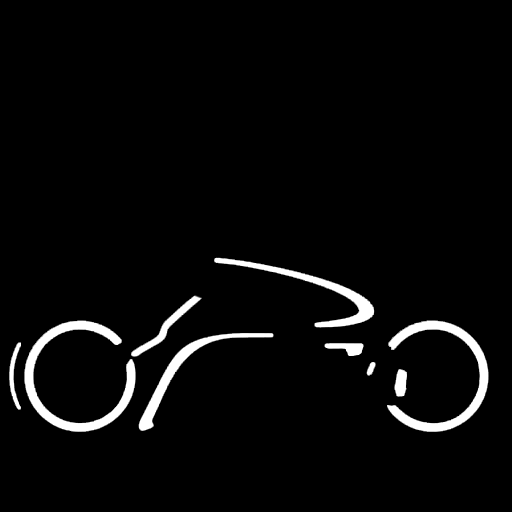
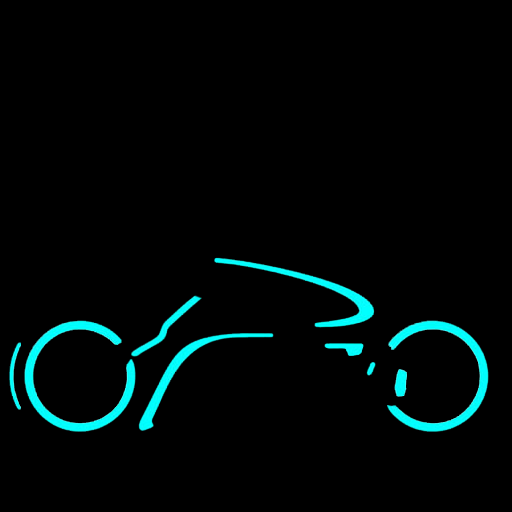
Items! YEA!

Changed region(s): [[0.0, 0.5625, 0.5312, 0.8438], [0.4062, 0.5, 0.9688, 0.8438], [0.0938, 0.8125, 0.2188, 0.8438]]

diff --git a/js/ItemManager.js b/js/ItemManager.js
@@ -4,52 +4,85 @@
 
 function ItemManager(scene) {
 
-    this.gameItems = [];
-
-    // Test
-    var pu = new PowerUp();
-    this.gameItems.push(pu);
-
-    function PowerUp() {
-        var __self = this;
-        new THREE.JSONLoader().load('obj/LightDisk.js', function (geometry) {
-            // select texture based on type
-            var texture = THREE.ImageUtils.loadTexture('img/LightDisk.png'),
-                material = new THREE.MeshLambertMaterial({
-                    map: texture,
-                    transparent : false
-                });
-            //texture.wrapT = THREE.RepeatWrapping;
-
-            __self.powerUpMesh = new THREE.Mesh(geometry, material);
-            __self.powerUpMesh.scale.set(2, 2, 2);
-            __self.powerUpMesh.position = CONFIG.playerPos.convertToCartesian();
-            __self.powerUpMesh.position.z -= CONFIG.cameraFar;
-            __self.powerUpMesh.rotation.x = Math.PI / 2;
-
-            window.scene.add(__self.powerUpMesh);
-        });
-    }
-
-    PowerUp.prototype.update = function () {
-        this.powerUpMesh.rotation.z += 0.05;
-    };
-
+    this.gameItems = []; 
+                                      
     // Item - super class???
     // Booster portals
     // tron disk power-ups -> different colors
     // Credit(W/ Curves)
 }
 
+ItemManager.prototype.generatePowerUps = function(curve, numOfItems) {
+    
+    // x1,y1 to x2,y2 where x is theta and y is z
+    // Consider r is constant for items
+    // division = num of items = 10    
+    var itemPoints = curve.getSpacedPoints(numOfItems),
+        itemRadius = CONFIG.trailRadiusLower;
+        
+    var i = 0, newPowerUp = null;
+    for(; i < numOfItems; i++)
+    {
+        var point3D = UTIL.v3c(itemRadius, itemPoints[i].x, itemPoints[i].y)
+        
+        log(itemPoints[i].y);
+        
+        newPowerUp = new PowerUp(point3D.convertToCartesian());
+        this.gameItems.push(newPowerUp);
+    }     
+}
+
 ItemManager.prototype.update = function () {
+    
     // update all items
     _.each(this.gameItems, function (item) {
+      // TODO: delete past items too far back
+    
         item.update();
     });
 
-    // update any new creation of items based on randomization or file
+    if(Math.random() > 0.99)
+    {
+        //var theta = -Math.PI/2;
+        var theta = 360*Math.random();
+        var curve = new THREE.QuadraticBezierCurve(theta, window.levelProgress - CONFIG.cameraFar, 
+                                            theta, window.levelProgress - CONFIG.cameraFar*1.5, 
+                                            theta, window.levelProgress - CONFIG.cameraFar*2);
+                                            
+        this.generatePowerUps(curve, 10);
+    }
+};
 
-    // delete past items too far back
+function PowerUp(pos) {
+    var __self = this;
+    this.powerUpMesh = null;
+    this.position = pos;
+    
+    new THREE.JSONLoader().load('obj/LightDisk.js', function (geometry) {
+        
+        // select texture based on type
+        var texture = THREE.ImageUtils.loadTexture('img/LightDisk.png'),
+            material = new THREE.MeshLambertMaterial({
+                map: texture,
+                transparent : false
+            });
+        
+        __self.powerUpMesh = new THREE.Mesh(geometry, material);
+        __self.powerUpMesh.scale.set(2, 2, 2);
+        __self.powerUpMesh.position = __self.position;
+        
+        //__self.powerUpMesh.position = CONFIG.playerPos.convertToCartesian();
+        //__self.powerUpMesh.position.z = __self.z;
+        __self.powerUpMesh.rotation.x = Math.PI / 2;
+        
+        window.scene.add(__self.powerUpMesh);
+    });
+}
 
-    //(TEST collision with items????)
+PowerUp.prototype.update = function () {
+    
+    if(this.powerUpMesh != null)
+    {
+        this.powerUpMesh.rotation.z += 0.05;
+    }
 };

diff --git a/js/script.js b/js/script.js
@@ -2,7 +2,7 @@
  * @author Troy Ferrell & Yang Su
  */
 
-var scene, glowscene;
+var scene, glowscene, levelProgress;
 
 $(document).ready(function () {
     var camera, renderer,
@@ -40,6 +40,10 @@ $(document).ready(function () {
         scene.add(camera);
         scene.add(new THREE.AmbientLight(0xAAAAAA));
 
+       // Glow Scene setup
+        glowscene = new THREE.Scene();
+        glowscene.add(new THREE.AmbientLight(0xFFFFFF));
+
         // Objects
         tunnel = new Tunnel(function () {
             tunnelInitialized = true;
@@ -57,10 +61,6 @@ $(document).ready(function () {
         renderer.clear();
 
         document.body.appendChild(renderer.domElement);
-
-        // GLOW Initialization
-        glowscene = new THREE.Scene();
-        glowscene.add(new THREE.AmbientLight(0xFFFFFF));
 
         // GLOW COMPOSER
         var renderTargetParameters = {
@@ -93,8 +93,8 @@ $(document).ready(function () {
         glowcomposer.addPass(renderModelGlow);
         glowcomposer.addPass(hblur);
         glowcomposer.addPass(vblur);
-        glowcomposer.addPass(hblur);
-        glowcomposer.addPass(vblur);
+        //glowcomposer.addPass(hblur);
+       // glowcomposer.addPass(vblur);
 
         // FINAL COMPOSER
         var finalshader = {
@@ -167,8 +167,10 @@ $(document).ready(function () {
         var now = UTIL.now(),
             dt = (now - lastUpdate) / 1000;
 
+        levelProgress = player.getPosition().z;
+
         // Call update methods to produce animation
-        tunnel.update(player.getPosition().z);
+        tunnel.update();
         player.update(dt);
         itemManager.update();
 

diff --git a/js/Tunnel.js b/js/Tunnel.js
@@ -45,10 +45,10 @@ function Tunnel(callback) {
     }
 }
 
-Tunnel.prototype.update = function (playerZ) {
+Tunnel.prototype.update = function () {
     // Dynamic tunnel generation based on player position
     if (this.segments.length * CONFIG.tunnelSegmentDepth <
-            Math.abs(playerZ) + CONFIG.cameraFar) {
+            Math.abs(window.levelProgress) + CONFIG.cameraFar) {
         this.generateSection(-this.segments.length * CONFIG.tunnelSegmentDepth);
         if (this.sections.length - this.oldestLiveSection > CONFIG.tunnelLiveSections) {
             // Remove from scene
@@ -65,7 +65,7 @@ Tunnel.prototype.update = function (playerZ) {
 
     var firstLightRing = this.lights[0],
         lastLightRing = this.lights[this.lights.length - 1];
-    if (Math.abs(firstLightRing.z) < Math.abs(playerZ) - CONFIG.cameraFar) {
+    if (Math.abs(firstLightRing.z) < Math.abs(window.levelProgress) - CONFIG.cameraFar) {
         firstLightRing.repositionLightRing(lastLightRing.z - CONFIG.cameraFar);
         this.lights.splice(0, 1); // remove first element
         this.lights.push(firstLightRing); // add first element to element

diff --git a/js/LightCycleTrail.js b/js/LightCycleTrail.js
@@ -82,15 +82,9 @@ function TrailSegment(lastVertexTop, lastVertexBottom, playerPos) {
 
     this.geometry = new THREE.Geometry();
     this.geometry.dynamic = true;
-//  this.geometry.materials = materials;
 
     var theta = playerPos.theta,
         z = playerPos.z,
-
-    // need to create config parameters or pass basedon value
-        r1 = 45,
-        r2 = 35, // need to create config parameters or pass based on value
-
         face,
         faceuv;
 
